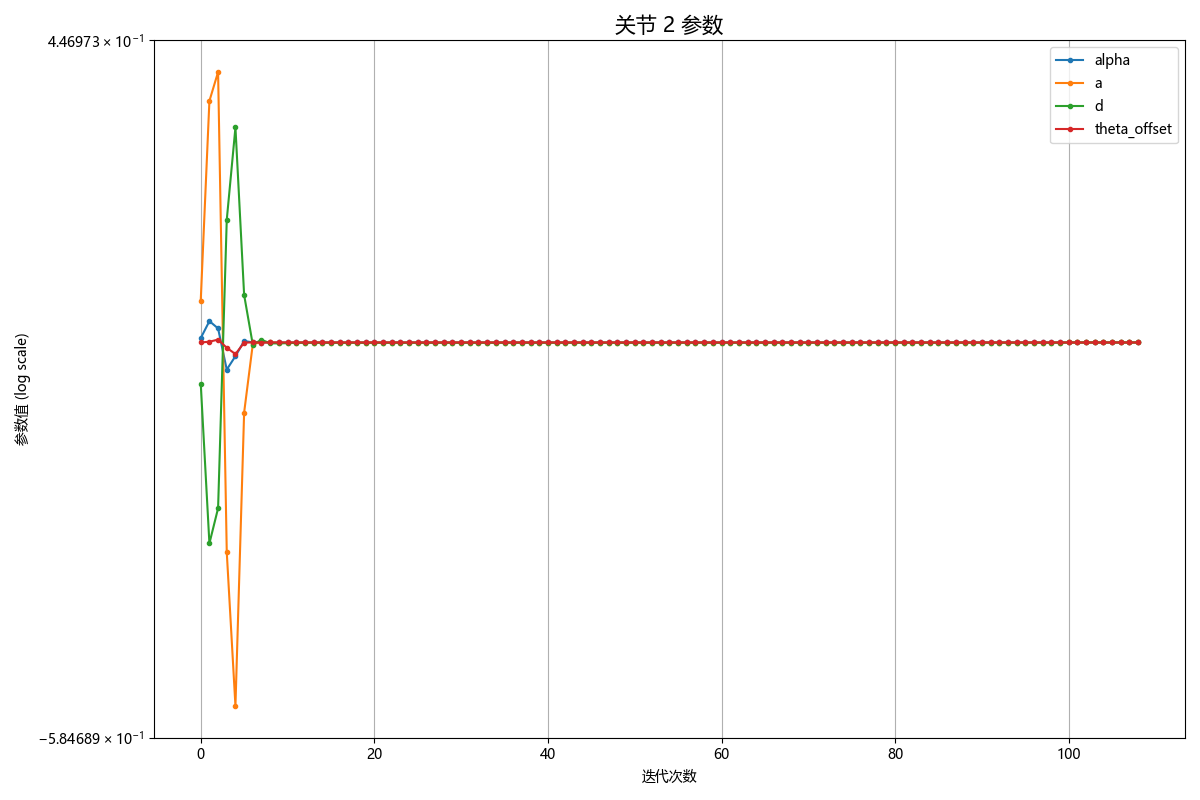
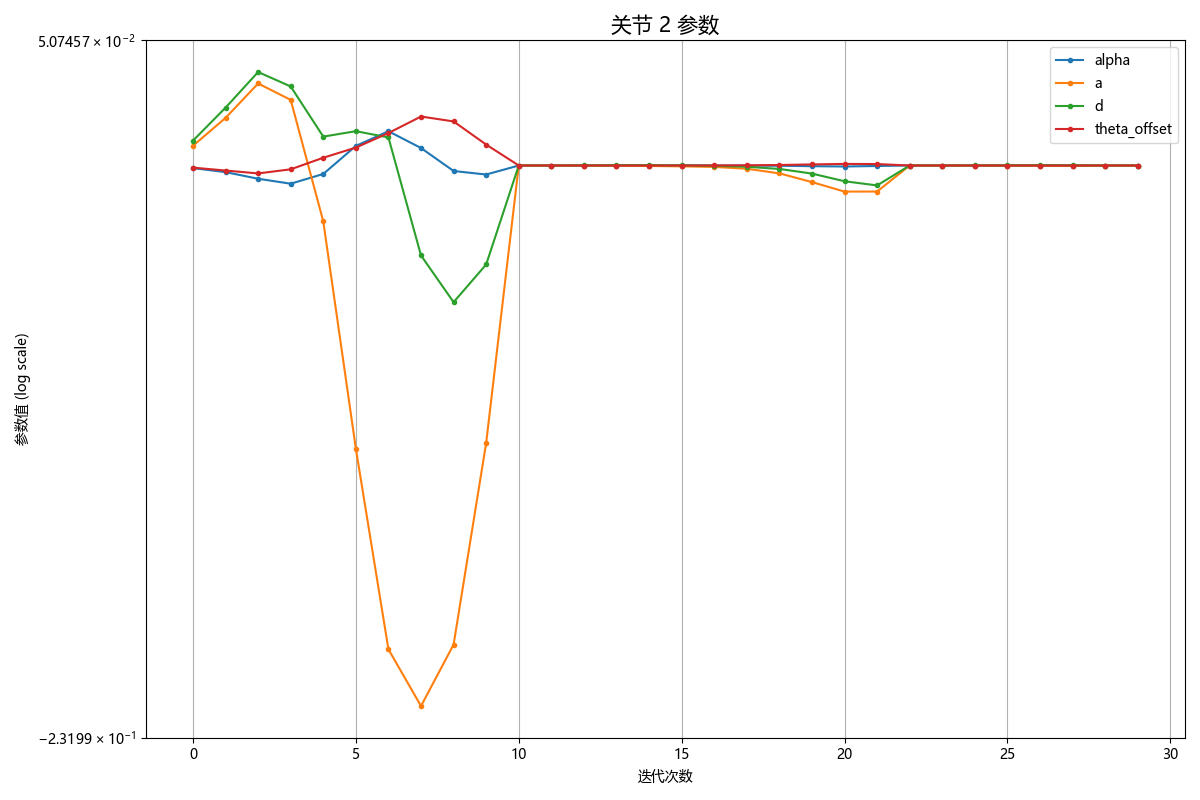
测试得到lamda的最优值为2和0.001

diff --git a/lm_optimize_pytorch.py b/lm_optimize_pytorch.py
@@ -546,9 +546,9 @@ def alternate_optimize_parameters(initial_params, max_alt_iterations=10, converg
     
     #! 定义两组参数索引
     #* 第一组：DH参数 + 工具TCP + 激光跟踪仪XYZ
-    all_indices_group1 = list(range(24,38))  
+    all_indices_group1 = list(range(0,34))  
     #* 第二组：激光跟踪仪四元数
-    all_indices_group2 = list(range(0,24))  
+    all_indices_group2 = list(range(34,38))  
    
     opt_indices_group1 = [idx for idx in all_indices_group1 if idx not in ALL_FIXED_INDICES]
     opt_indices_group2 = [idx for idx in all_indices_group2 if idx not in ALL_FIXED_INDICES]
@@ -688,8 +688,8 @@ if __name__ == '__main__':
         convergence_tol=1e-4,      # 收敛阈值
         max_sub_iterations_group1=10, # 第一组子优化迭代次数
         max_sub_iterations_group2=10, # 第二组子优化迭代次数 
-        lambda_init_group1=0.01,   # 第一组参数初始阻尼因子
-        lambda_init_group2=100,   # 第二组参数初始阻尼因子
+        lambda_init_group1=2.0,   # 第一组参数初始阻尼因子
+        lambda_init_group2=0.001,   # 第二组参数初始阻尼因子
     )
 
     # 保存优化结果 
